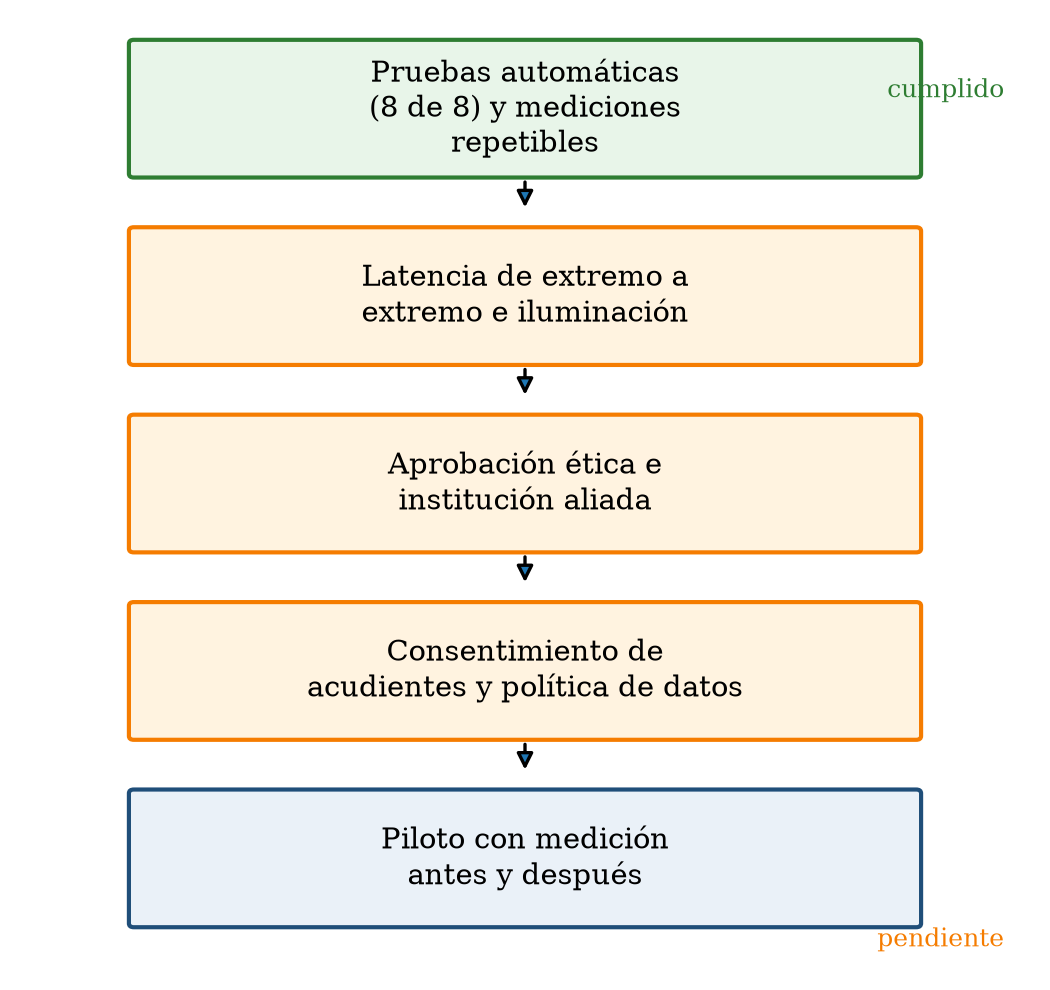
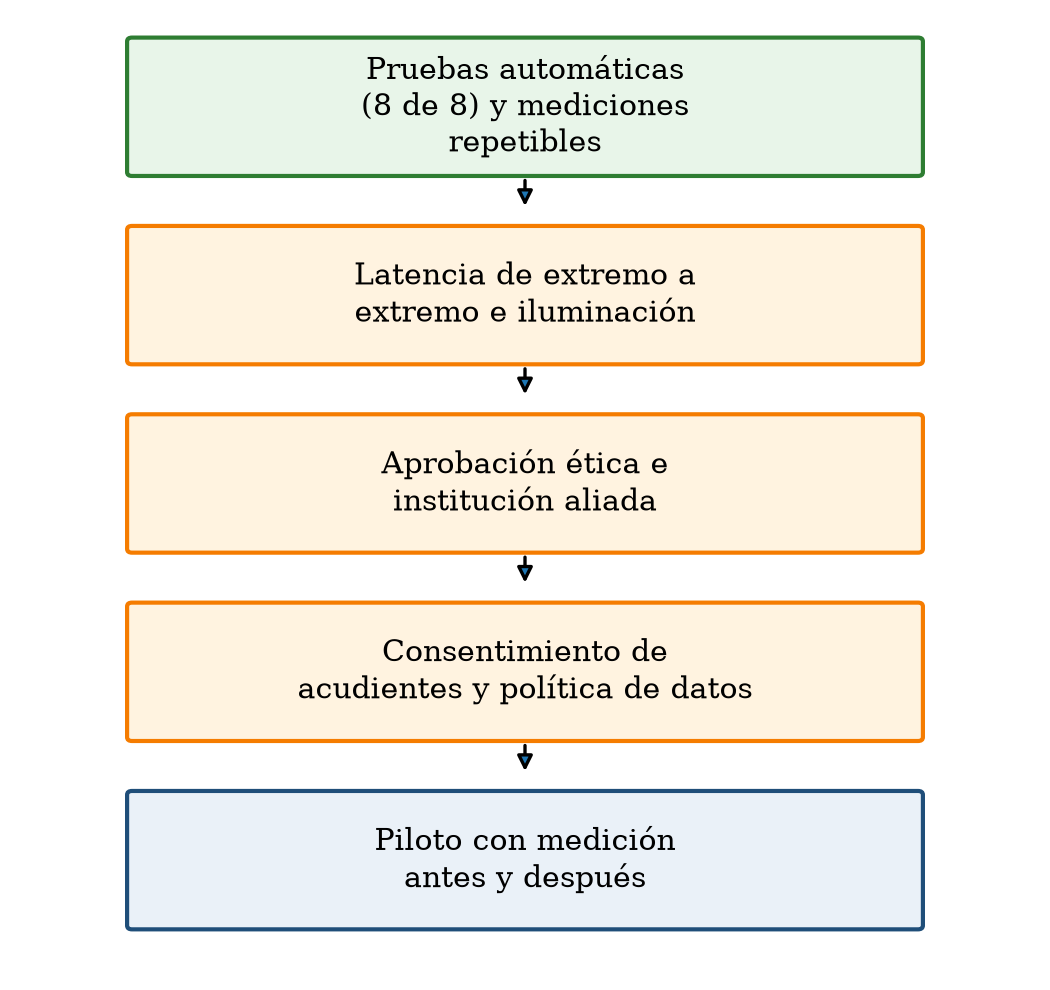
COMMIT_EDITMSG

diff --git a/entregables_last/generador/ef_nucleo.py b/entregables_last/generador/ef_nucleo.py
@@ -339,6 +339,10 @@ class Escrito:
         t = self.d.add_table(rows=1, cols=len(cab)); t.alignment = WD_TABLE_ALIGNMENT.CENTER; t.autofit = False
         t.allow_autofit = False
         self._sin_bordes(t)
+        mar = OxmlElement("w:tblCellMar")
+        for lado in ("left", "right"):
+            x = OxmlElement(f"w:{lado}"); x.set(qn("w:w"), "60"); x.set(qn("w:type"), "dxa"); mar.append(x)
+        t._tbl.tblPr.append(mar)
         tot = sum(anchos); anchos = [a * 8.5 / tot for a in anchos]
         for i, c in enumerate(cab):
             cel = t.rows[0].cells[i]; cel.width = Cm(anchos[i])
